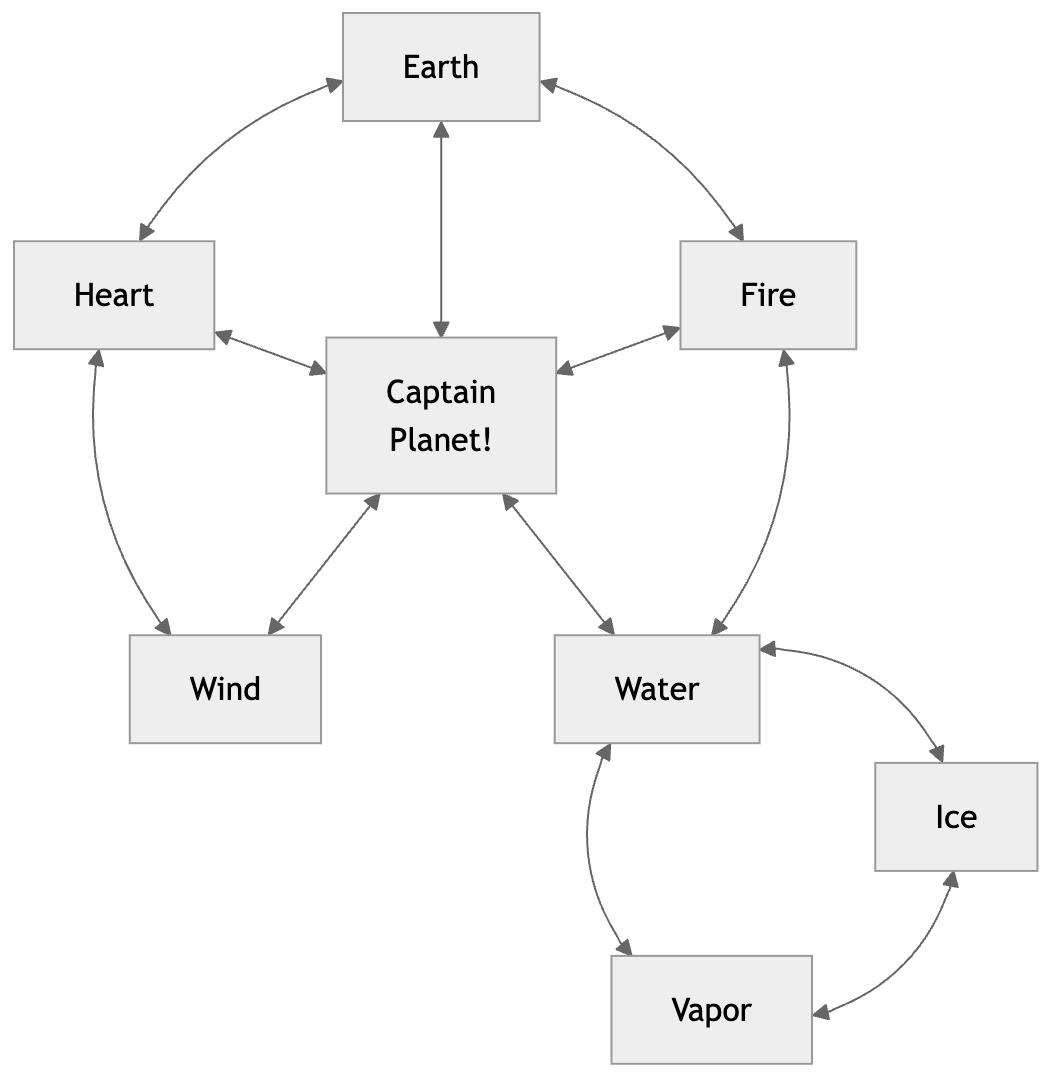
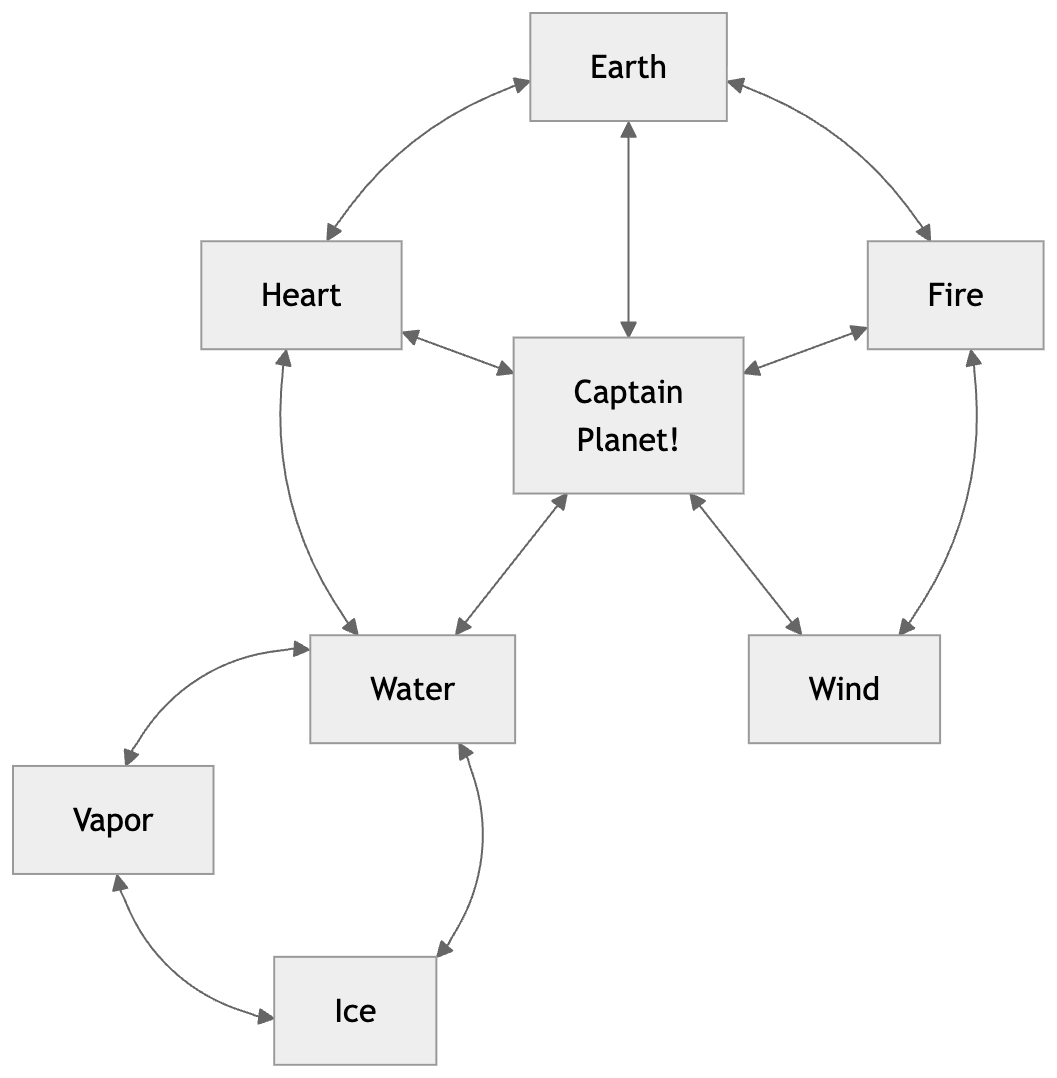
docs: the elements recite in order
Earth, Fire, Wind, Water, Heart — the rim edges now seat the ring
the way the cartoon calls it, the missing arc between Wind and
Water, the gear still on Water.

(generated using Claude Fable 5)

diff --git a/demo/main.ts b/demo/main.ts
@@ -162,10 +162,10 @@ const cases: Case[] = [
   Wind <--> P
   Water <--> P
   Heart <--> P
-  Heart <--> Wind
+  Heart <--> Water
   Heart <--> Earth
   Earth <--> Fire
-  Fire <--> Water
+  Fire <--> Wind
   Water <--> Vapor
   Vapor <--> Ice
   Ice <--> Water

diff --git a/README.md b/README.md
@@ -151,10 +151,10 @@ flowchart TB
   Wind <--> P
   Water <--> P
   Heart <--> P
-  Heart <--> Wind
+  Heart <--> Water
   Heart <--> Earth
   Earth <--> Fire
-  Fire <--> Water
+  Fire <--> Wind
   Water <--> Vapor
   Vapor <--> Ice
   Ice <--> Water
